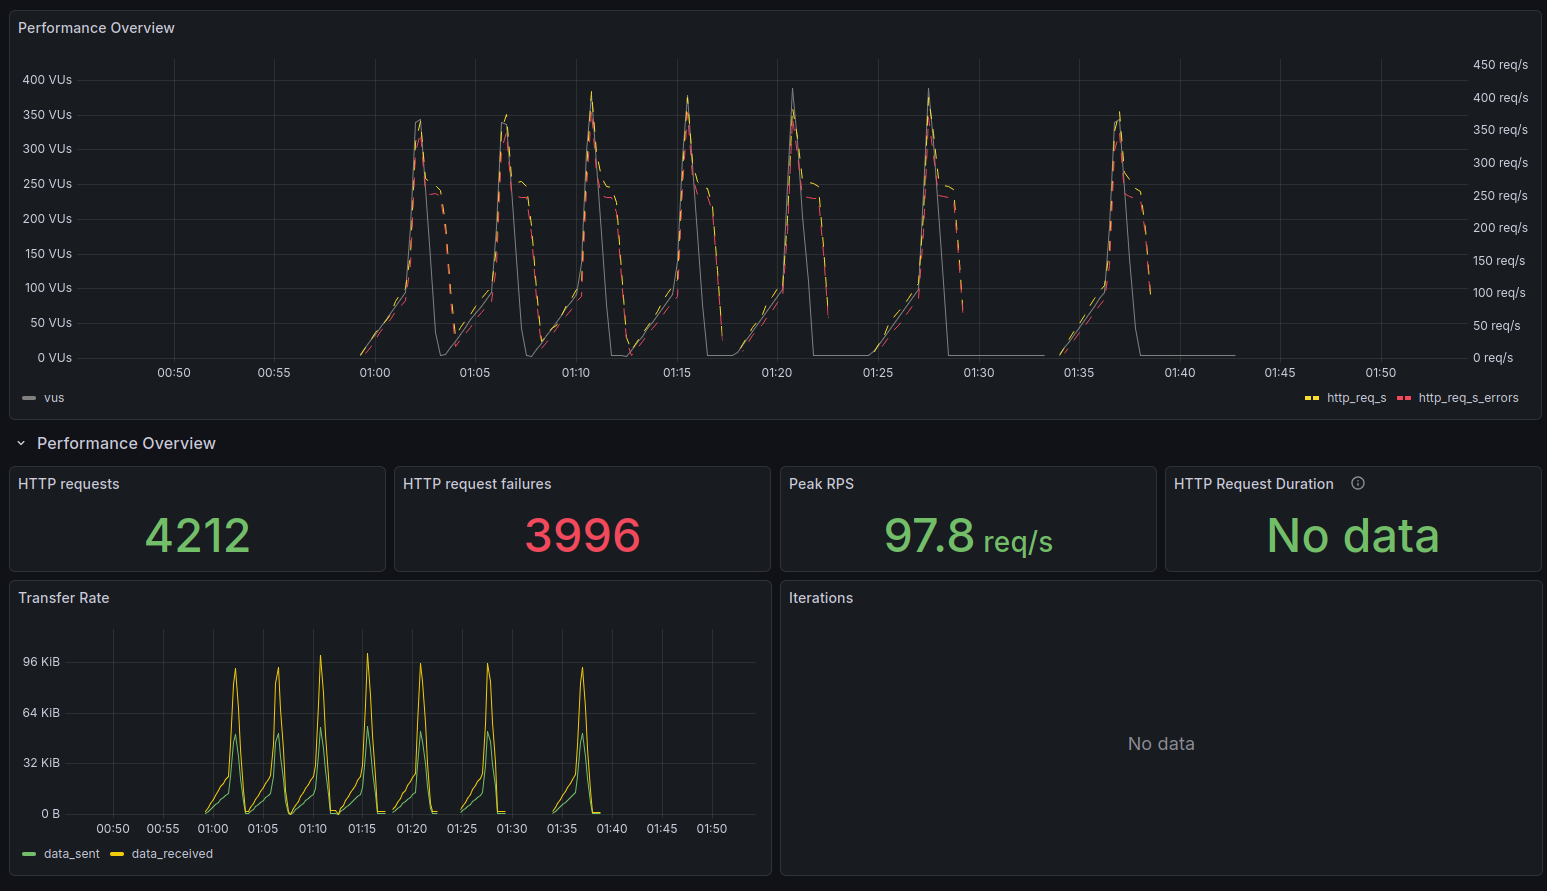
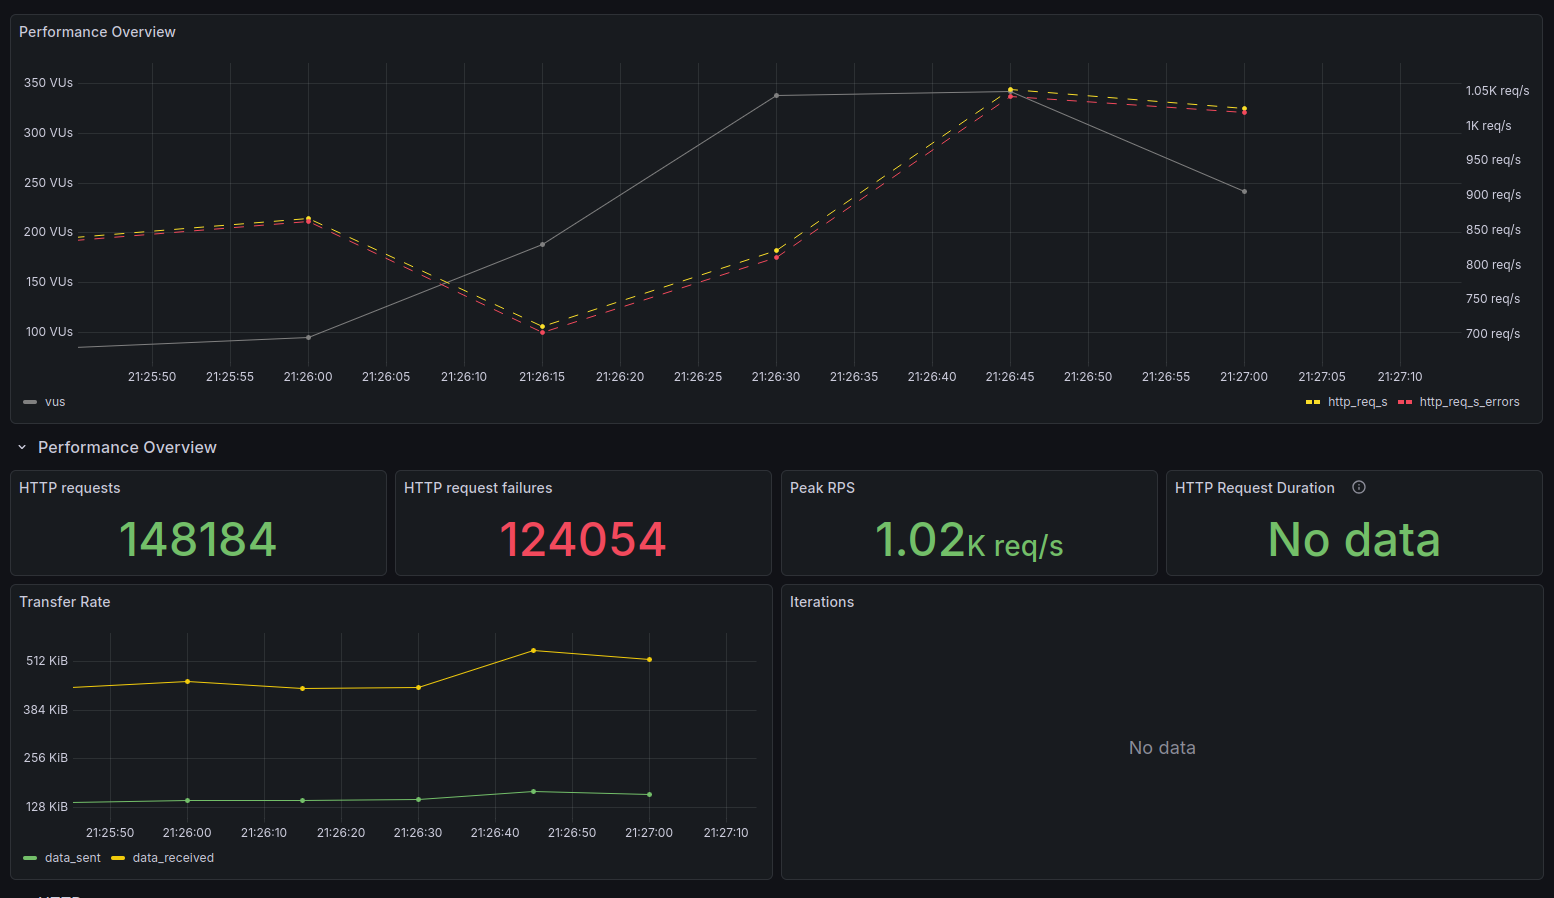
Add stress test

diff --git a/README.md b/README.md
@@ -640,7 +640,7 @@ Luego, se escribe la constraseña que desea.
 Después, importa un dashboard. Para *Prometheus* el **id** es ***18030***. A continuación, se tiene que importar un data source colocando como url: *http://prometheus.default.svc.cluster.local:9090*.
 
 #### Resultado obtenido
-<div align="center"><img width="80%" alt="image" src="diagramas/resultados_test_rate_limit.png" /></div>
+<div align="center"><img width="80%" alt="resultado del test de rate limit" src="diagramas/resultados_test_rate_limit.png" /></div>
 
 **Beneficios Demostrados**
 1. Protección Anti-DoS: Evita que un atacante inunde el sistema con solicitudes.
@@ -728,6 +728,9 @@ Cuando un servicio falla y el Circuit Breaker se activa (estado OPEN), el sistem
 3. **Auto-recuperación:** El circuito se cierra automáticamente cuando el servicio se recupera
 4. **Prevención de cascada:** Evita que fallos en un servicio tumben todo el sistema
 5. **Experiencia de usuario:** Mensajes claros en lugar de timeouts largos
+
+### Prueba de estrés
+<div align="center"><img width="80%" alt="resultado del test de rate limit" src="diagramas/prueba_estres.png" /></div>
 
 ---
 
